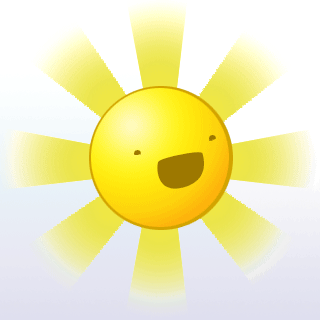
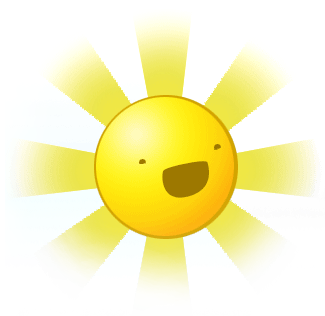
gettin somewhere!!

diff --git a/index.html b/index.html
@@ -16,14 +16,20 @@
 	<!-- PANEL ONE -->
 	<div class="area" id="home">
 		<div class="ui raised segment" id="welcome">
-			<img src="img/sun.gif" width="9%">
-			<h2>Welcome home!</h2>
-		</div>
-		<div id="border" class="ui stacked segment">
-			<div class="quote" id="bash"><h3>Random Bash Quote</h3></div>
+			<div class="flex-item one-third">
+				<img src="img/sun.png" width="80%">
+				<h2>HAI2U!!</h2>
+			</div>
+			<div class="flex-item two-thirds">
+				<div class="ui statistic"><div class="value">4:05</div><div class="label">Label</div></div>
+  				<div class="ui statistic"><div class="value">22</div><div class="label">Label</div></div>
+			</div>
 		</div>
 		<div id="border" class="ui stacked segment">
 			<div id="todo"><h2>Tasks</h2></div>
+		</div>
+		<div id="border" class="ui stacked segment">
+			<div class="quote" id="bash"><h3>Random Bash Quote</h3></div>
 		</div>
 	</div>
 	<!-- END PANEL -->
@@ -37,8 +43,11 @@
 
 	<!-- PANEL THREE -->
 	<div class="area" id="news"><div id="border" class="ui stacked segment">
-		<h2>News and shit</h2>
-		<p>Not a lot going on</p>
+		<h2>News and shit</h2>	
+		<div class="news-item" id="bbc"><h3>BBC News</h3></div>
+		<div class="news-item" id="reddit"><h3>Reddit</h3></div>
+		<div class="news-item" id="clients"><h3>Clients From Hell</h3></div>
+		<div class="news-item" id="gamespot"><h3>Gamespot</h3></div>
 	</div></div>
 	<!-- END PANEL -->
 

diff --git a/css/style.css b/css/style.css
@@ -59,14 +59,26 @@ body
 #welcome
 {
 
+	background: 			#9ed5e8; /* Old browsers */
+	background:             -moz-linear-gradient(top,  #9ed5e8 0%, #67afd4 100%); /* FF3.6+ */
+	background:             -webkit-gradient(linear, left top, left bottom, color-stop(0%,#9ed5e8), color-stop(100%,#67afd4)); /* Chrome,Safari4+ */
+	background:             -webkit-linear-gradient(top,  #9ed5e8 0%,#67afd4 100%); /* Chrome10+,Safari5.1+ */
 
-	background: #9ed5e8; /* Old browsers */
-background: -moz-linear-gradient(top,  #9ed5e8 0%, #67afd4 100%); /* FF3.6+ */
-background: -webkit-gradient(linear, left top, left bottom, color-stop(0%,#9ed5e8), color-stop(100%,#67afd4)); /* Chrome,Safari4+ */
-background: -webkit-linear-gradient(top,  #9ed5e8 0%,#67afd4 100%); /* Chrome10+,Safari5.1+ */
-background: -o-linear-gradient(top,  #9ed5e8 0%,#67afd4 100%); /* Opera 11.10+ */
-background: -ms-linear-gradient(top,  #9ed5e8 0%,#67afd4 100%); /* IE10+ */
-background: linear-gradient(to bottom,  #9ed5e8 0%,#67afd4 100%); /* W3C */
-filter: progid:DXImageTransform.Microsoft.gradient( startColorstr='#9ed5e8', endColorstr='#67afd4',GradientType=0 ); /* IE6-9 */
+	display:				flex;
 
+}
+
+.flex-item
+{
+
+}
+
+.one-third
+{
+	flex: 					1 1 10em
+}
+
+.two-thirds
+{
+	flex: 					14 14 55em
 }

diff --git a/js/modules/feeds.js b/js/modules/feeds.js
@@ -5,7 +5,10 @@
 // - id of element to be inserted into
 // - quantity of results
 getFeed("http://feeds.sydv.net/latest-bash-quotes","bash",1);
-
+getFeed("http://feeds.bbci.co.uk/news/technology/rss.xml","bbc",7);
+getFeed("http://www.reddit.com/r/skateboarding/.rss","reddit",5);
+getFeed("http://clientsfromhell.tumblr.com/rss","clients",5);
+getFeed("http://www.gamespot.com/feeds/reviews/","gamespot",6);
 
 // this accepts urls of valid feeds and sends them to php (module_get_feed)
 function getFeed(websiteUrl,tag,limit)
